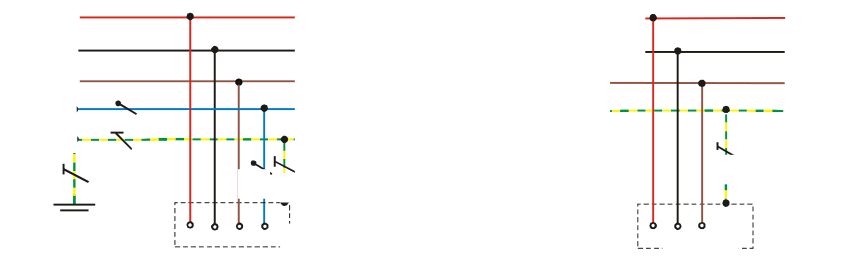
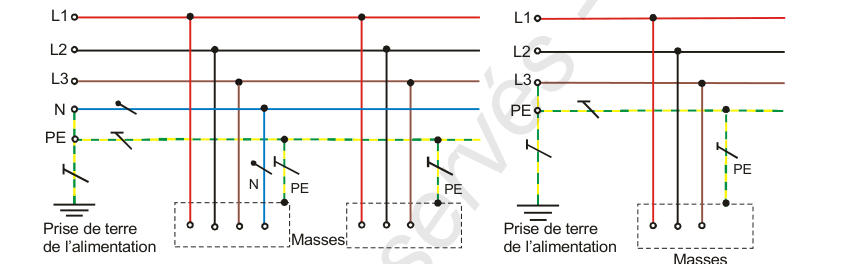
Conserver les conducteurs PE intacts sur les schémas quiz (recadrage sans effacement blanc).
Supprime le masquage texte qui coupait les fils ; seuls les titres de figure sont exclus par le cadrage.

diff --git a/quiz-nfc-15-100.html b/quiz-nfc-15-100.html
@@ -8,7 +8,7 @@
   <meta name="robots" content="index, follow"/>
   <link rel="icon" href="assets/app-icon.png" type="image/png" />
   <link rel="stylesheet" href="css/site-brand.css" />
-  <link rel="stylesheet" href="css/quiz-nfc.css?v=20260624n" />
+  <link rel="stylesheet" href="css/quiz-nfc.css?v=20260624o" />
   <title>Electro DZ — Quiz NF C 15-100 | SwissDZ</title>
   <link rel="canonical" href="https://electro-dz.com/quiz-nfc-15-100.html" />
   <style>
@@ -76,7 +76,7 @@
   <script src="js/site-config.js"></script>
   <script src="https://cdn.jsdelivr.net/npm/@supabase/supabase-js@2"></script>
   <script src="js/supabase-client.js"></script>
-  <script src="js/quiz-leaderboard.js?v=20260624n"></script>
-  <script src="js/quiz-nfc.js?v=20260624n" defer></script>
+  <script src="js/quiz-leaderboard.js?v=20260624o"></script>
+  <script src="js/quiz-nfc.js?v=20260624o" defer></script>
 </body>
 </html>

diff --git a/js/quiz-nfc.js b/js/quiz-nfc.js
@@ -4,7 +4,7 @@
 (function () {
   const STORAGE_LANG = "electrodz-site-lang";
   const PLAN_URL = "data/quiz/nf-c15-100-2015/plan-modules.json";
-  const QUIZ_BUILD = "20260624n";
+  const QUIZ_BUILD = "20260624o";
   const LOCAL_QUIZ_URL = "http://localhost:8765/quiz-nfc-15-100.html";
 
   const page = document.querySelector(".quiz-page");

diff --git a/scripts/extract-quiz-figures.py b/scripts/extract-quiz-figures.py
@@ -1,8 +1,8 @@
 #!/usr/bin/env python3
 """
 Extrait des figures du PDF NF C 15-100 pour le quiz visuel.
-Recadre le schéma seul (sans titre ni légende) et masque tous les textes
-(TN-S, TNC, TNS, Figure 312…, Masses, PEN…) pour ne pas donner la réponse.
+Recadre le schéma (sans titres « Figure 312… » / « Schéma TN-S ») sans effacer
+de rectangles blancs sur les conducteurs — les fils PE/N restent continus.
 Usage : python3 scripts/extract-quiz-figures.py
 """
 import os
@@ -12,7 +12,7 @@ ROOT = os.path.dirname(os.path.dirname(os.path.abspath(__file__)))
 PDF = os.path.join(ROOT, "pdf/francais/nf-c15-100-2015/nf-c15-100-2015.pdf")
 OUT = os.path.join(ROOT, "data/quiz/nf-c15-100-2015/figures")
 
-# page 1-indexée, clip (x0, y0, x1, y1) — zone du dessin uniquement (sans titres)
+# page 1-indexée, clip (x0, y0, x1, y1) — dessin seul, hors légendes de figure
 FIGURES = [
     ("m01-fig-312A-tns.png", 72, (88, 306, 518, 438)),
     ("m01-fig-312B-tncs.png", 72, (88, 548, 518, 692)),
@@ -24,18 +24,10 @@ FIGURES = [
 SCALE = 2.0
 
 
-def redact_text_in_clip(page, clip):
-    """Masque tous les mots dans la zone."""
-    for w in page.get_text("words", clip=clip):
-        r = fitz.Rect(w[0] - 5, w[1] - 3, w[2] + 5, w[3] + 3)
-        page.draw_rect(r, color=(1, 1, 1), fill=(1, 1, 1))
-
-
 def extract_figure(page_num, rect):
     doc = fitz.open(PDF)
     page = doc[page_num - 1]
     clip = fitz.Rect(*rect)
-    redact_text_in_clip(page, clip)
     mat = fitz.Matrix(SCALE, SCALE)
     pix = page.get_pixmap(matrix=mat, clip=clip, alpha=False)
     doc.close()
@@ -49,7 +41,7 @@ def main():
         path = os.path.join(OUT, fname)
         pix.save(path)
         print(f"✓ {fname} ({pix.width}×{pix.height})")
-    print(f"\n{len(FIGURES)} figures (schéma seul, textes masqués) → {OUT}")
+    print(f"\n{len(FIGURES)} figures (recadrage seul, conducteurs intacts) → {OUT}")
 
 
 if __name__ == "__main__":
